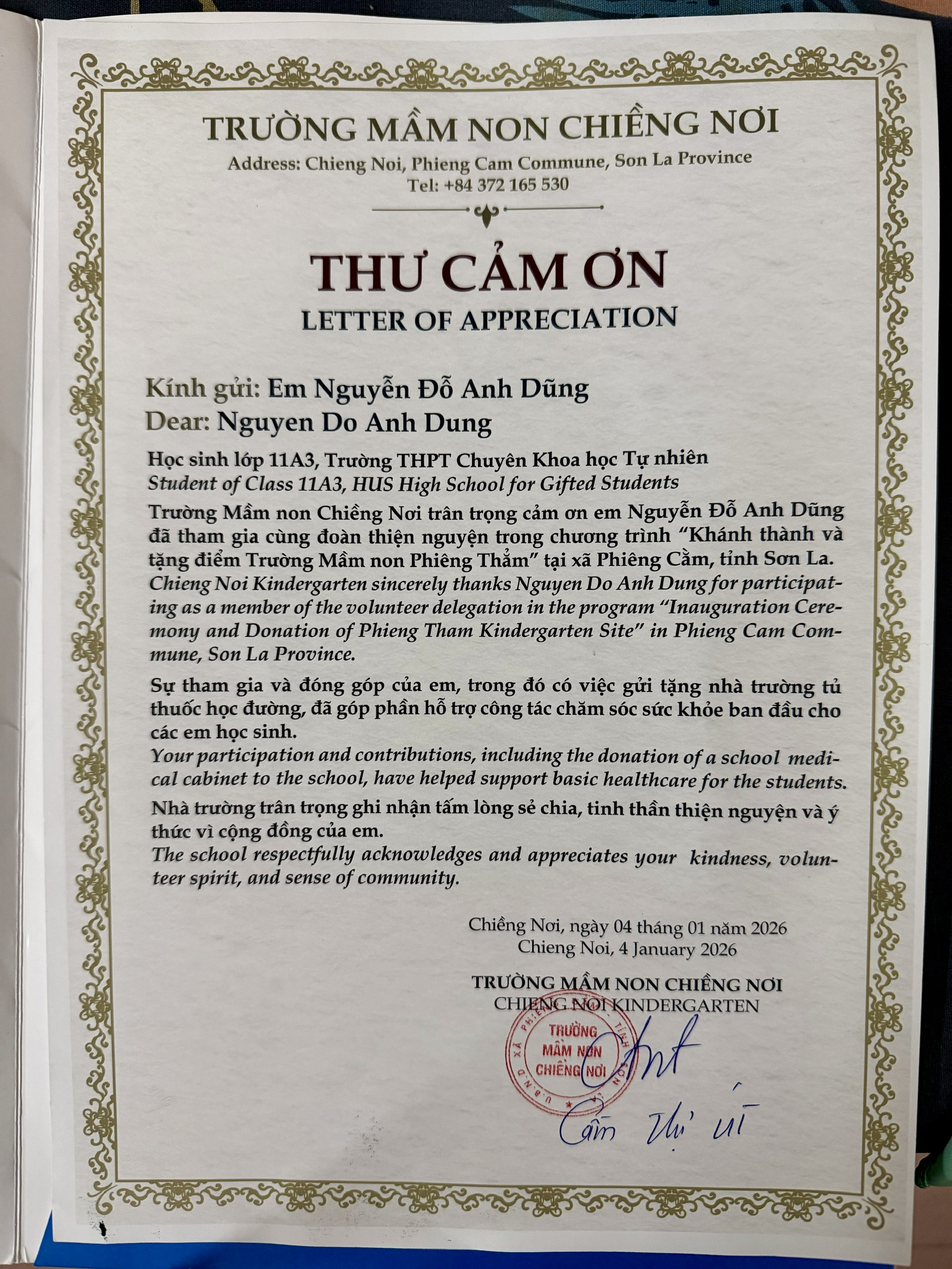
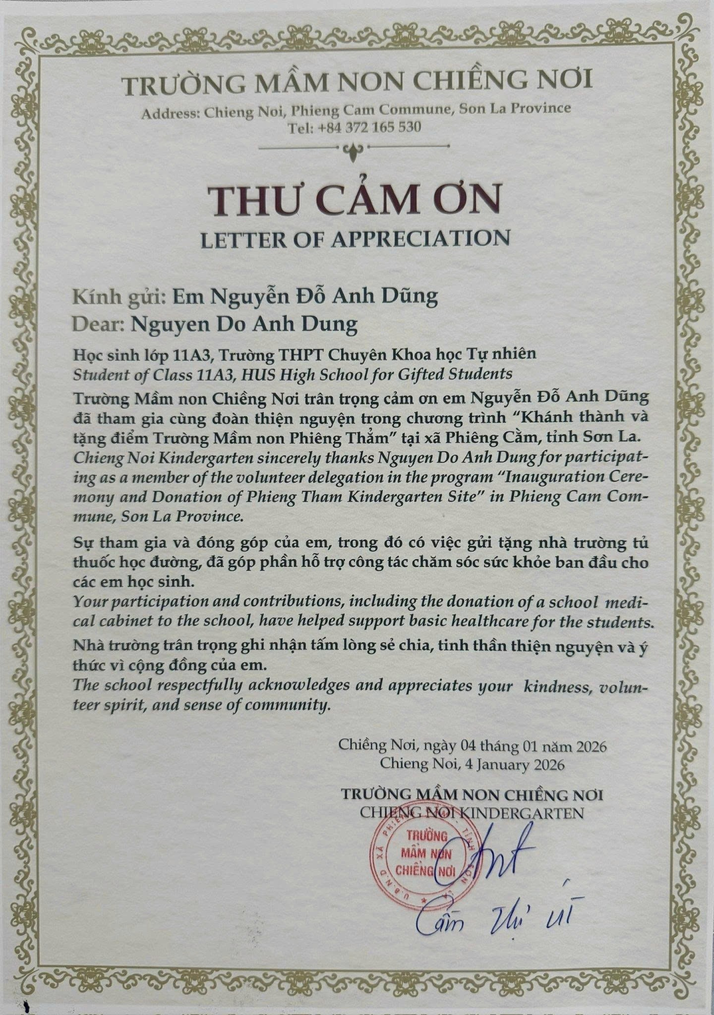
thêm ảnh

diff --git a/index.html b/index.html
@@ -342,7 +342,7 @@
       <div class="meta"><span data-en>2026 &middot; Volunteer</span><span data-vi>2026 &middot; Thiện nguyện</span></div>
       <h3 style="margin-top:6px"><span data-en>Gieo Nắng &mdash; Dấu Nhỏ Special Education Center</span><span data-vi>Gieo Nắng &mdash; Trung tâm Giáo dục đặc biệt Dấu Nhỏ</span></h3>
       <p><span data-en>Volunteer on the Gieo Nắng programme at the Dấu Nhỏ Special Education Center in Tam Trinh, Hanoi, running play and learning activities with the children.</span><span data-vi>Tình nguyện viên hoạt động Gieo Nắng tại Trung tâm Giáo dục đặc biệt Dấu Nhỏ, Tam Trinh, Hà Nội: tổ chức hoạt động vui chơi và học tập cùng các em.</span></p>
-<div class='gal'><a href='assets/events/gieonang/gieonang-01.jpg' data-lb><img src='assets/events/gieonang/gieonang-01.jpg' alt='Gieo Nang volunteers with children at Dau Nhi Special Education Center' loading='lazy'></a><a href='assets/events/gieonang/gieonang-02.jpg' data-lb><img src='assets/events/gieonang/gieonang-02.jpg' alt='Gieo Nang 2026 - hoat dong cung cac em 2' loading='lazy'></a></div><div class='gal docs'><a href='assets/events/certs/cert-gieonang.jpg' data-lb><img src='assets/events/certs/cert-gieonang.jpg' alt='Gieo Nang 2026 certificate' loading='lazy'></a></div>
+<div class='gal'><a href='assets/events/gieonang/gieonang-01.jpg' data-lb><img src='assets/events/gieonang/gieonang-01.jpg' alt='Gieo Nang volunteers with children at Dau Nhi Special Education Center' loading='lazy'></a><a href='assets/events/gieonang/gieonang-02.jpg' data-lb><img src='assets/events/gieonang/gieonang-02.jpg' alt='Gieo Nang 2026 - hoat dong cung cac em 2' loading='lazy'></a><a href='assets/events/gieonang/gieonang-03.jpg' data-lb><img src='assets/events/gieonang/gieonang-03.jpg' alt='Bridge of Love STEM class with children at Dau Nhi Special Education Center' loading='lazy'></a><a href='assets/events/gieonang/gieonang-04.jpg' data-lb><img src='assets/events/gieonang/gieonang-04.jpg' alt='Musical instruments and educational gifts for children' loading='lazy'></a><a href='assets/events/gieonang/gieonang-05.jpg' data-lb><img src='assets/events/gieonang/gieonang-05.jpg' alt='Popsicle stick bridge building STEM workshop' loading='lazy'></a></div><div class='gal docs'><a href='assets/events/certs/cert-gieonang.jpg' data-lb><img src='assets/events/certs/cert-gieonang.jpg' alt='Gieo Nang 2026 certificate' loading='lazy'></a></div>
     </div>
     <div class="card rv" style="margin-top:16px">
       <div class="meta"><span data-en>August 2025 &middot; Volunteer</span><span data-vi>08/2025 &middot; Thiện nguyện</span></div>
@@ -368,7 +368,7 @@
       <div class="meta"><span data-en>26 January 2026 &middot; Benefactor</span><span data-vi>26/01/2026 &middot; Nhà hảo tâm</span></div>
       <h3 style="margin-top:6px"><span data-en>&ldquo;Warm Winter 2025&rdquo; volunteer campaign</span><span data-vi>Chiến dịch tình nguyện &ldquo;Mùa Đông Ấm 2025&rdquo;</span></h3>
       <p><span data-en>Recognised as a benefactor of the &ldquo;Warm Winter 2025&rdquo; volunteer campaign in Lao Chải commune, Tuyên Quang province, by the VNU University of Medicine and Pharmacy Youth Union and the Lao Chải commune Youth Union.</span><span data-vi>Được Đoàn trường Đại học Y Dược (ĐHQGHN) và Đoàn xã Lao Chải ghi nhận là nhà hảo tâm của chiến dịch tình nguyện &ldquo;Mùa Đông Ấm 2025&rdquo; tại xã Lao Chải, tỉnh Tuyên Quang.</span></p>
-<div class='gal'><a href='assets/events/warmwinter/warmwinter-01.jpg' data-lb><img src='assets/events/warmwinter/warmwinter-01.jpg' alt='Warm Winter 2025 volunteer team, Lao Chai, Tuyen Quang' loading='lazy'></a><a href='assets/events/warmwinter/warmwinter-02.jpg' data-lb><img src='assets/events/warmwinter/warmwinter-02.jpg' alt='Warm Winter 2025 - delivering gifts to a local family' loading='lazy'></a></div>
+<div class='gal'><a href='assets/events/warmwinter/warmwinter-01.jpg' data-lb><img src='assets/events/warmwinter/warmwinter-01.jpg' alt='Warm Winter 2025 volunteer team, Lao Chai, Tuyen Quang' loading='lazy'></a><a href='assets/events/warmwinter/warmwinter-02.jpg' data-lb><img src='assets/events/warmwinter/warmwinter-02.jpg' alt='Warm Winter 2025 - delivering gifts to a local family' loading='lazy'></a><a href='assets/events/warmwinter/warmwinter-03.jpg' data-lb><img src='assets/events/warmwinter/warmwinter-03.jpg' alt='Warm Winter 2025 - gift distribution to local students, Lao Chai' loading='lazy'></a><a href='assets/events/warmwinter/warmwinter-04.jpg' data-lb><img src='assets/events/warmwinter/warmwinter-04.jpg' alt='Warm Winter 2025 - preparing gift packages and supplies, Lao Chai' loading='lazy'></a><a href='assets/events/warmwinter/warmwinter-05.jpg' data-lb><img src='assets/events/warmwinter/warmwinter-05.jpg' alt='Warm Winter 2025 - volunteer team with local children, Lao Chai' loading='lazy'></a><a href='assets/events/warmwinter/warmwinter-06.jpg' data-lb><img src='assets/events/warmwinter/warmwinter-06.jpg' alt='Warm Winter 2025 - free medical checkup and medicine distribution team' loading='lazy'></a><a href='assets/events/warmwinter/warmwinter-07.jpg' data-lb><img src='assets/events/warmwinter/warmwinter-07.jpg' alt='Warm Winter 2025 - handing warm blankets and gifts to local families' loading='lazy'></a><a href='assets/events/warmwinter/warmwinter-08.jpg' data-lb><img src='assets/events/warmwinter/warmwinter-08.jpg' alt='Warm Winter 2025 - volunteer group with local beneficiaries' loading='lazy'></a><a href='assets/events/warmwinter/warmwinter-09.jpg' data-lb><img src='assets/events/warmwinter/warmwinter-09.jpg' alt='Warm Winter 2025 - gift presentation to students on stage' loading='lazy'></a><a href='assets/events/warmwinter/warmwinter-10.jpg' data-lb><img src='assets/events/warmwinter/warmwinter-10.jpg' alt='Warm Winter 2025 - local students attending the event' loading='lazy'></a><a href='assets/events/warmwinter/warmwinter-11.jpg' data-lb><img src='assets/events/warmwinter/warmwinter-11.jpg' alt='Warm Winter 2025 - gift ceremony assembly in the schoolyard' loading='lazy'></a></div>
 <div class='gal docs'><a href='assets/events/certs/cert-warmwinter.jpg' data-lb><img src='assets/events/certs/cert-warmwinter.jpg' alt='Certificate of Appreciation - Warm Winter 2025 benefactor' loading='lazy'></a></div>
     </div>
     <div class="card rv" style="margin-top:16px">
